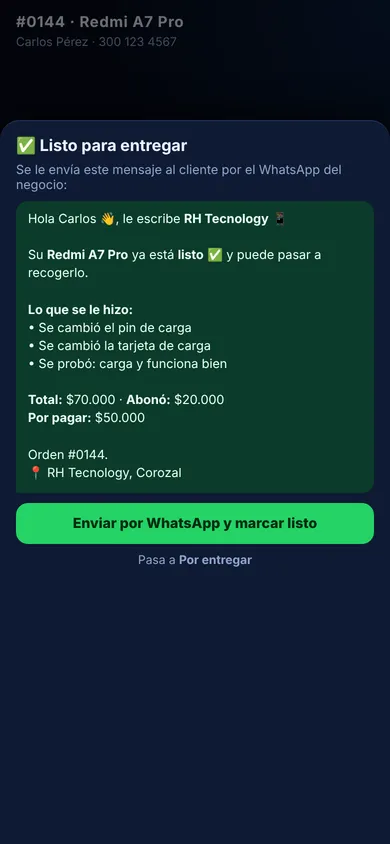
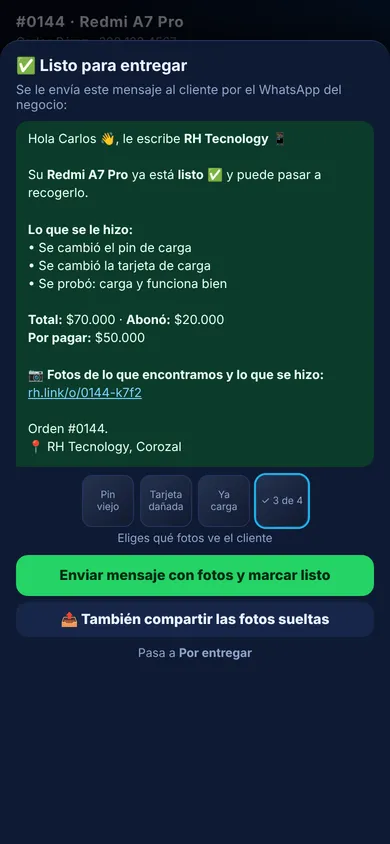
Maqueta: fotos 1 mes, fotos al cliente por enlace en WhatsApp, página del cliente
Claude-Session: https://claude.ai/code/session_01DEMzrWSaudLimiiRZi8k6E

diff --git a/docs/servicio-tecnico/maqueta.html b/docs/servicio-tecnico/maqueta.html
@@ -162,7 +162,7 @@
   <div class="linea" style="--c:var(--aviso)"><small>25 nov 4:30 p. m. · Osman</small>💲 Precio <b>$45.000 → $70.000</b>. Motivo: hay que cambiar la tarjeta de carga. Cliente avisado por WhatsApp ✓ y aceptó.</div>
   <div class="linea" style="--c:var(--exito)"><small>26 nov 11:00 a. m. · Osman · 📷 1 foto</small>Se cambió la tarjeta. <b>Ya carga y funciona.</b></div>
  </div>
- <div class="tarjeta"><h4>📷 Fotos (4)</h4><div class="fotos"><div class="foto">Al<br>recibir</div><div class="foto">Pin<br>viejo</div><div class="foto">Tarjeta<br>dañada</div><div class="foto">Ya<br>carga</div></div></div>
+ <div class="tarjeta"><h4>📷 Fotos (4) <span style="margin-left:auto;text-transform:none;letter-spacing:0;font-weight:600;color:var(--aviso)">⏳ se borran el 25 dic</span></h4><div class="fotos"><div class="foto">Al<br>recibir</div><div class="foto">Pin<br>viejo</div><div class="foto">Tarjeta<br>dañada</div><div class="foto">Ya<br>carga</div></div></div>
  <div class="tarjeta"><div class="plata"><div>Total<b>$70.000</b><span style="font-size:10px">antes $45.000</span></div><div>Abonó<b>$20.000</b></div><div>Falta<b style="color:var(--aviso)">$50.000</b></div></div></div>
  <div class="btns"><div>📝 Agregar trabajo</div><div>📷 Agregar foto</div><div>💲 Cambiar precio</div></div>
  <div class="grande" style="background:var(--exito);color:#04261a">✅ Marcar como listo y avisar al cliente</div>
@@ -185,11 +185,14 @@
 <section class="pantalla" id="p5">
 <div class="enc"><div><h1>#0144 · Redmi A7 Pro</h1><small>Carlos Pérez · 300 123 4567</small></div></div>
 <div class="velo"></div>
-<div class="hoja" style="top:120px">
+<div class="hoja" style="top:40px">
  <h3>✅ Listo para entregar</h3>
  <p style="margin:0 0 8px;font-size:12.5px;color:var(--suave)">Se le envía este mensaje al cliente por el WhatsApp del negocio:</p>
- <div class="wa-msg">Hola Carlos 👋, le escribe <b>RH Tecnology</b> 📱<br><br>Su <b>Redmi A7 Pro</b> ya está <b>listo</b> ✅ y puede pasar a recogerlo.<br><br><b>Lo que se le hizo:</b><br>• Se cambió el pin de carga<br>• Se cambió la tarjeta de carga<br>• Se probó: carga y funciona bien<br><br><b>Total:</b> $70.000 · <b>Abonó:</b> $20.000<br><b>Por pagar:</b> $50.000<br><br>Orden #0144.<br>📍 RH Tecnology, Corozal</div>
- <div class="grande" style="background:#25d366;color:#032b12">Enviar por WhatsApp y marcar listo</div>
+ <div class="wa-msg">Hola Carlos 👋, le escribe <b>RH Tecnology</b> 📱<br><br>Su <b>Redmi A7 Pro</b> ya está <b>listo</b> ✅ y puede pasar a recogerlo.<br><br><b>Lo que se le hizo:</b><br>• Se cambió el pin de carga<br>• Se cambió la tarjeta de carga<br>• Se probó: carga y funciona bien<br><br><b>Total:</b> $70.000 · <b>Abonó:</b> $20.000<br><b>Por pagar:</b> $50.000<br><br>📷 <b>Fotos de lo que encontramos y lo que se hizo:</b><br><span style="color:#7dd3fc;text-decoration:underline">rh.link/o/0144-k7f2</span><br><br>Orden #0144.<br>📍 RH Tecnology, Corozal</div>
+ <div class="fotos" style="margin-top:8px;justify-content:center"><div class="foto" style="width:52px;height:52px">Pin<br>viejo</div><div class="foto" style="width:52px;height:52px">Tarjeta<br>dañada</div><div class="foto" style="width:52px;height:52px">Ya<br>carga</div><div class="foto" style="width:52px;height:52px;outline:2px solid var(--celeste)">✓ 3 de 4</div></div>
+ <div style="text-align:center;font-size:11.5px;color:var(--suave);margin-top:4px">Eliges qué fotos ve el cliente</div>
+ <div class="grande" style="background:#25d366;color:#032b12">Enviar mensaje con fotos y marcar listo</div>
+ <div class="grande" style="background:var(--sup2);margin-top:6px;padding:9px">📤 También compartir las fotos sueltas</div>
  <div style="text-align:center;font-size:12px;color:var(--suave);margin-top:8px">Pasa a <b>Por entregar</b></div>
 </div>
 </section>
@@ -236,7 +239,7 @@
   <div class="linea" style="--c:var(--exito)"><small>26 nov · Osman</small>Se cambió la tarjeta. Funciona ✓ · WhatsApp enviado.</div>
  </div>
  <div class="tarjeta"><h4>💵 Pagos</h4><div class="kv"><span>25 nov</span><span>Abono $20.000 · 💵 efectivo · Andrés</span><span>27 nov</span><span>Resto $50.000 · 📱 QR · Andrés</span><span>Total</span><span><b>$70.000 pagado ✓</b></span></div></div>
- <div class="tarjeta"><h4>📷 Fotos (4)</h4><div class="fotos"><div class="foto">Al<br>recibir</div><div class="foto">Pin<br>viejo</div><div class="foto">Tarjeta<br>dañada</div><div class="foto">Ya<br>carga</div></div></div>
+ <div class="tarjeta"><h4>📷 Fotos</h4><div style="font-size:12.5px;color:var(--suave)">🗑 Se borraron solas el 25 dic (pasó 1 mes). El cliente las recibió por WhatsApp el 26 nov.</div></div>
  <div class="acciones"><div class="acc wa">💬 WhatsApp</div><div class="acc pdf">📄 Recibo PDF</div></div>
 </div>
 </section>
@@ -299,4 +302,20 @@
  </div>
 </div>
 <div class="nota"><b>Varias claves.</b> Se guardan todas las que diga el cliente; la que funcionó queda en verde y es la que se ve primero en Entregados.</div>
+</section><section class="pantalla" id="p13" style="background:#000">
+<div style="text-align:center;padding:18px 16px 6px"><img src="logo.webp" alt="" style="width:120px"></div>
+<div class="cuerpo">
+ <div class="tarjeta" style="text-align:center"><div style="font-size:12px;color:var(--suave)">Orden #0144</div><div style="font-size:18px;font-weight:800;margin:2px 0">Redmi A7 Pro · Carlos</div><span class="pill verde">✅ Listo para recoger</span></div>
+ <div class="tarjeta"><h4>🔍 Lo que encontramos</h4>
+  <div style="display:grid;grid-template-columns:1fr 1fr;gap:8px">
+   <div><div class="foto" style="width:100%;height:120px">📷 Pin de carga<br>dañado</div><div style="font-size:11.5px;color:var(--suave);margin-top:3px">El pin de carga no hacía contacto</div></div>
+   <div><div class="foto" style="width:100%;height:120px">📷 Tarjeta de<br>carga dañada</div><div style="font-size:11.5px;color:var(--suave);margin-top:3px">La tarjeta de carga estaba mala</div></div>
+  </div></div>
+ <div class="tarjeta"><h4>🔧 Lo que se hizo</h4>
+  <div class="foto" style="width:100%;height:120px">📷 Celular cargando<br>después del arreglo</div>
+  <ul style="margin:8px 0 0;padding-left:18px;font-size:13px;line-height:1.55"><li>Se cambió el pin de carga</li><li>Se cambió la tarjeta de carga</li><li>Se probó: carga y funciona bien</li></ul></div>
+ <div class="tarjeta"><div class="plata"><div>Total<b>$70.000</b></div><div>Abonó<b>$20.000</b></div><div>Por pagar<b style="color:var(--aviso)">$50.000</b></div></div></div>
+ <div style="text-align:center;font-size:11px;color:var(--suave);margin-top:8px">📍 RH Tecnology · Corozal, Sucre · Este enlace deja de funcionar en 1 mes</div>
+</div>
+<div class="nota"><b>Lo que ve el cliente</b> al tocar el enlace: una página sencilla con el logo, las fotos y lo que se hizo. No muestra claves ni otros datos.</div>
 </section></body></html>

diff --git a/docs/servicio-tecnico/PLAN.md b/docs/servicio-tecnico/PLAN.md
@@ -45,6 +45,16 @@ Búsqueda por nombre, teléfono, IMEI o número de orden.
   total, abono, saldo y número de orden.
 - **Sin garantía** (se quitó). Si a un trabajo se le da, se anota en el historial.
 
+## Fotos
+- Se guardan **1 mes** y luego **se borran solas** (el texto de la orden queda para siempre).
+  En la ficha se ve la fecha de borrado; en Entregados queda la nota "se borraron solas el …".
+- **Al marcar listo, el cliente recibe las fotos**: el WhatsApp lleva un **enlace privado** a una página
+  sencilla (logo, "Lo que encontramos" con fotos, "Lo que se hizo" con fotos y pasos, total/abono/saldo).
+  Se elige qué fotos ve el cliente. La página no muestra claves ni otros datos y deja de funcionar en
+  1 mes. Botón extra "Compartir las fotos sueltas" (menú de compartir del celular → WhatsApp Business).
+- Nota técnica: abrir WhatsApp con el mensaje escrito (opción 1) no permite adjuntar archivos; por eso
+  el enlace. Fotos reducidas (~100-150 KB) para que 1 GB gratis alcance con margen.
+
 ## WhatsApp: opción 1 (gratis)
 El WhatsApp Business del negocio está en otro teléfono. Se **vincula como dispositivo acompañante**
 en los celulares que usan la app (WhatsApp Business → ⋮ → "Vincular como dispositivo acompañante";
